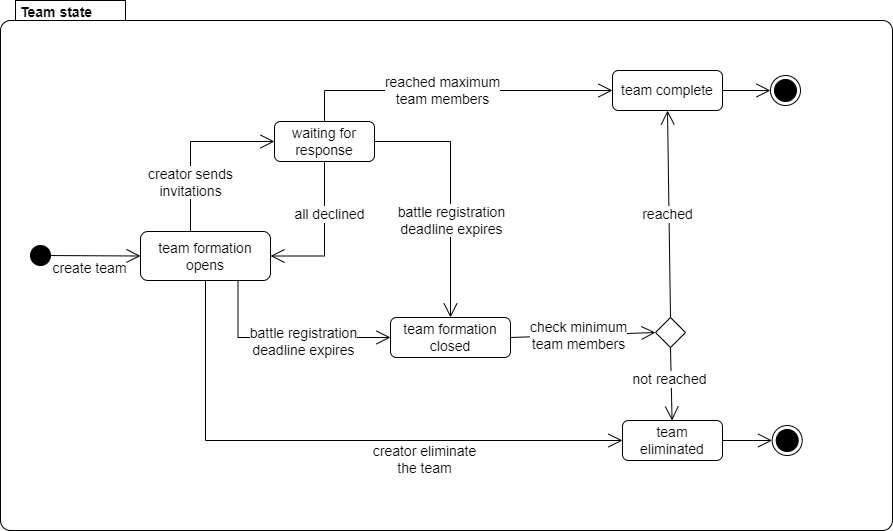
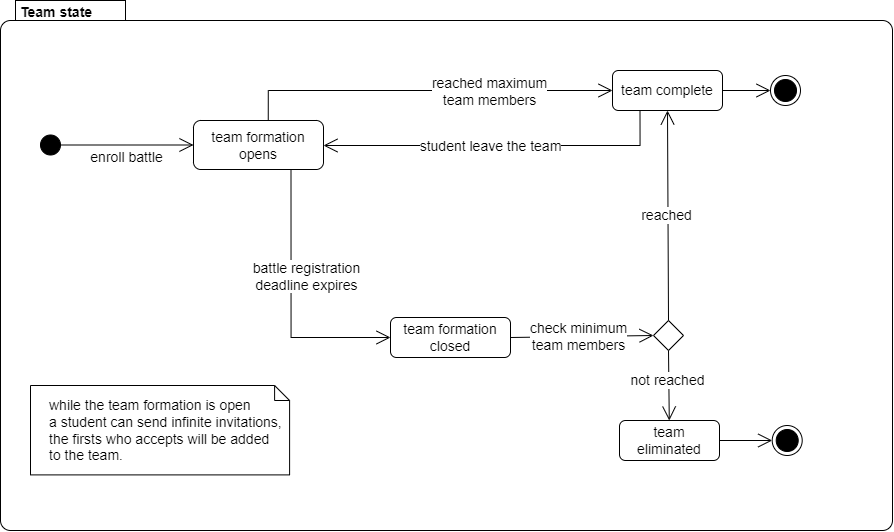
Fixed some issues in chapter 2.
Fixed team state diagram and scenario team formation.
Fixed UML.
Added lbl in scenarios and in traceability matrix.

diff --git a/RASD/chapters/2_overall_description.tex b/RASD/chapters/2_overall_description.tex
@@ -51,11 +51,9 @@ When the final submission deadline expires the battle ends and a consolidation s
 \end{figure}
 
 \subsubsection*{Team state diagrams}
-The state diagram in figure \ref{fig:team_state} represent the evolution of a team, from its creation to its end. \newline
-When a student who is enrolled in a tournament wants to participate in a battle he/she must create a team. The creator can send infinite invitations, and the firsts to accept will be added to the team. As soon as the team reach the maximum value of students, it is complete and all other invitations sent before will not be useful. \newline
-As soon as the battle registration deadline expires the team formation closes. If the team has reached the minimum required value it is complete and can participate to the battle. Otherwise it will be eliminated. \newline 
-If all invitations are declined the creator have the possibility to eliminate the team. 
-If the creator create the team by error, he can eliminate it. This is necessary because a creator is not allowed to join another team by accepting an invite.
+The state diagram in figure \ref{fig:team_state} represent the evolution of a team. \newline
+A student can send infinite invitations, and the firsts to accept will be added to the team. As soon as the team reach the maximum value of students, it is complete and all other invitations sent before will not be useful.  A student can decide to leave the team at any time, but only before the registration deadline. \newline
+As soon as the battle registration deadline expires the team formation closes. If the team has reached the minimum required value it is complete and can participate to the battle. Otherwise it will be eliminated. 
 
 \begin{figure}[H]
     \centering
@@ -68,47 +66,38 @@ If the creator create the team by error, he can eliminate it. This is necessary 
 \subsection{Scenarios}\label{desc:scenarios}
 In this section we will analyze all possible scenarios that can occur in using the CKB platform.
 
-\subsubsection{Scenario 1: Users registration}
-Mario is a professor and wants to challenge his students, so he choose the CKB platform. He creates a personal account by inserting some personal information and then get a confirmation e-mail about the creation of a new account. He now can be able to create tournaments and battle. \newline
-Peach is a computer science student and wants to improve her software development skills. She learns about the CKB platform from her professor, and decide to create an account to be able to participate to battles. The platform request some personal information and then she get a confirmation e-mail about the creation of his new account. She now have a personal profile where every other user can see her progress, in terms of badges earned, battles won, and tournament rankings. \newline
-In both cases the platform request some personal information such as name, surname, username, password, e-mail and the role, that can be student or educator. The account is created after the user clicks on the link sent in the confirmation e-mail. All future notifications will be sent through that e-mail. \newline
-Every registered user can log-in with username and password any time, in order to access the personal dashboard and use the CKB platform.
-
-\subsubsection{Scenario 2: Tournament and battle creation}
-Mario, that is a registered educator, wants to create a new tournament called "Super Smash". He open the CKB platform, log-in, and from his personal dashboard he select the option "create new tournament". He then follows all the steps that allows him to set a registration deadline and a minimum and maximum number of participants. He can then invite other educators to create battles within his tournament. \newline
-Mario invites Luigi to his tournament by adding his username to the list of collaborator. Luigi will be notified by e-mail, and if interested have to join the tournament. \newline
-Luigi, that is also a registered educator, wants to create a new battle in Mario's tournament. He open the CKB platform, log-in, and from his personal dashboard he select "Super Smash" from the list of his tournaments.
-He then select the option "create new battle" and follows all the steps that allows him to upload the code kata, set a registration deadline, minimum and maximum number of students per group and a final submission deadline.
-The tournament "Super Smash" with the first battle are now open, in the list of all ongoing tournaments. \newline
-When all ongoing battles within the tournament have finished Mario can close it. Then the CKB platform will publish the final tournament ranking when is available and send a notification to all enrolled students.
-
-\subsubsection{Scenario 3: Students team formation}
-Peach, that is a registered student, wants to join a tournament. She open the CKB platform, log-in, and from her personal dashboard she is able to see the list of all ongoing tournaments. She selects a tournament and, if the subscription phase is still open, she enrolls.
-Daisy enrolls in the same tournament as Peach. \newline
-Peach decides to form a team. She can invite students up to the maximum number allowed. She has a limited number of invitations, and if someone does not accept the invitation within a fixed time, she can re-send the invite to someone else.
-She sends the invite to Daisy and Toad by adding their username in the team. They will receive a notification by e-mail, and if interested can join the team. Toad decided to join, while Daisy decline the invite. \newline
-If the team reach the minimum number of participants for the battle by the registration deadline, they can compete. \newline
-\textbf{A team does not reach the minimum number of participants:} Let's say that the minimum number of participant for the  previously mentioned battle is 3, in this case Peach can re-send the invite to another student but she forgot and the registration deadline expires.
-Peach's team cannot compete in the battle, therefore their score will be automatically 0.
-
-\subsubsection{Scenario 4: Real-time battle progress}
-Peach has formed a valid team for a battle within a tournament. The CKB platform has automatically created a GitHub repository with all the essential elements for the resolution of the battle, and send a link to all enrolled students.
-Peach and her team have to fork this repository and set up an automated workflow 
-through GitHub Actions. At each pushed commit the platform automatically update the total score of the team. The team is also able to see the current ranking evolving during the battle, so they can improve their solution to get a better rank.\newline
-\textbf{Students push the solution in a different language:} Every submission that does not use the language specified in the project description will not be evaluated, therefore the team will get a score of 0.  \newline
-\textbf{Students push the solution after the deadline:} Every submission after the deadline is ignored, therefore the team will get a score of 0. 
-
-\subsubsection{Scenario 5: Manual evaluation}
-After the final submission deadline of a battle expires, a consolidation phase open. During this phase Luigi, that is the creator of the battle, can optionally assign a personal score to each student that will be added to the total score of the entire team.
-As soon as Luigi has finished to evaluate all students, he will end the consolidation phase, and when the ranking are available all students will be notified.\newline
-\textbf{The score exceed the maximum value:} Luigi can make a mistake and assign a score to a student making the overall team score higher than 100. In this case the score will be automatically cut off to 100.
-
-\subsubsection{Scenario 6: Gamification badges management}
-Mario, that is a registered educator, wants to create a new badge that is earned by the student who wrote the most lines of code. From his personal dashboard he select the option "create new badge", then he has to specify the name, a description and one or more rules that regulates if a student is eligible to get that badge. In this case the name will be "Top Writer" and it will be awarded to the student who wrote the most lines of code within a battle. \newline
-Peach, that is a student, aspires to earn the "Top Writer" badge, and so she heavily contributed on the last battle. At the end of the battle the CKB platform automatically checks if any student is eligible for a badge, and Peach is assigned the "Top Writer", which will appear on her CKB profile.
-
-\subsubsection{Scenario 7: Visualize student profile}
-Mario is logged and want to check the profile of Luigi, in order to do this, he write the username of Luigi in the search-bar, will be visualized the resuming information about Luigi, including all the badges that he had collected.
+\begin{enumerate}[label=\textbf{SC.\arabic*}]
+    \item \lbl{sce: reg} \textbf{Users registration and log in.} \newline
+    Mario is a professor and wants to challenge his students, so he choose the CKB platform. He creates a personal account by inserting some personal information and then get a confirmation e-mail about the creation of a new account. He now can be able to create tournaments and battle. \newline
+    Peach is a computer science student and wants to improve her software development skills. She learns about the CKB platform from her professor, and decide to create an account to be able to participate to battles. The platform request some personal information and then she get a confirmation e-mail about the creation of his new account. She now have a personal profile where every other user can see her progress, in terms of badges earned, battles won, and tournament rankings. \newline
+    In both cases the platform request some personal information such as name, surname, username, password, e-mail and the role, that can be student or educator. The account is created after the user clicks on the link sent in the confirmation e-mail. All future notifications will be sent through that e-mail. \newline
+    Every registered user can log-in with username and password any time, in order to access the personal dashboard and use the CKB platform.
+    \item \lbl{sce: createTB} \textbf{Tournament and battle creation.} \newline
+    Mario, that is a registered educator, wants to create a new tournament called "Super Smash". He open the CKB platform, log-in, and from his personal dashboard he select the option "create new tournament". He then follows all the steps that allows him to set a registration deadline and a minimum and maximum number of participants. He can then invite other educators to create battles within his tournament. \newline
+    Mario invites Luigi to his tournament by adding his username to the list of collaborator. Luigi will be notified by e-mail, and if interested have to join the tournament. \newline
+    Luigi, that is also a registered educator, wants to create a new battle in Mario's tournament. He open the CKB platform, log-in, and from his personal dashboard he select "Super Smash" from the list of his tournaments.
+    He then select the option "create new battle" and follows all the steps that allows him to upload the code kata, set a registration deadline, minimum and maximum number of students per group and a final submission deadline.
+    The tournament "Super Smash" with the first battle are now open, in the list of all ongoing tournaments. \newline
+    When all ongoing battles within the tournament have finished Mario can close it. Then the CKB platform will publish the final tournament ranking when is available and send a notification to all enrolled students.
+    \item \lbl{sce: formTeam} \textbf{Students team formation.} \newline
+    Peach, Daisy and Toad, who are registered student, receive an e-mail that a new tournament is open and both decide to subscribe. They then receive another e-mail that a new battle is available and both decide to enroll. \newline
+    Peach decides to form a team. She can invite other students enrolled in the battle by sending an invitation. She sends the invite to Daisy and Toad by specifying their username. They will receive a notification by e-mail, and if interested can join the team. Toad decided to join, while Daisy not. \newline
+    If the team reach the minimum number of participants for the battle by the registration deadline, they can compete. \newline
+    \textbf{A team does not reach the minimum number of participants:} Let's say that the minimum number of participant for the  previously mentioned battle is 3, in this case Peach can send the invite to another student but she forgot and the registration deadline expires.
+    Peach's team cannot compete in the battle, therefore their score will be automatically 0.
+    \item \lbl{sce: evalA} \textbf{Real-time battle progress.} \newline
+    Peach has formed a valid team for a battle within a tournament. The CKB platform has automatically created a GitHub repository with all the essential elements for the resolution of the battle, and send a link to all enrolled students.
+    Peach and her team have to fork this repository and set up an automated workflow 
+    through GitHub Actions. At each pushed commit the platform automatically update the total score of the team. The team is also able to see the current ranking evolving during the battle, so they can improve their solution to get a better rank.\newline
+    \textbf{Students push the solution after the deadline:} Every submission after the deadline is ignored, therefore the team will get a score of 0. 
+    \item \lbl{sce: evalM} \textbf{Manual evaluation.} \newline
+    After the final submission deadline of a battle expires, a consolidation phase open. During this phase Luigi, that is the creator of the battle, can optionally assign a personal score to each student that will be added to the total score of the entire team.
+    As soon as Luigi has finished to evaluate all students, he will end the consolidation phase, and when the ranking are available all students will be notified.\newline
+    \textbf{The score exceed the maximum value:} Luigi can make a mistake and assign a score to a student making the overall team score higher than 100. In this case the score will be automatically cut off to 100.
+    \item \lbl{sce: badge} \textbf{Gamification badges management.} \newline
+    Mario, that is a registered educator, wants to create a new badge that is earned by the student who wrote the most lines of code. From his personal dashboard he select the option "create new badge", then he has to specify the name, a description and one or more rules that regulates if a student is eligible to get that badge. In this case the name will be "Top Writer" and it will be awarded to the student who wrote the most lines of code within a battle. \newline
+    Peach, that is a student, aspires to earn the "Top Writer" badge, and so she heavily contributed on the last battle. At the end of the battle the CKB platform automatically checks if any student is eligible for a badge, and Peach is assigned the "Top Writer", which will appear on her CKB profile.
+\end{enumerate}
 
 \clearpage
 
@@ -136,19 +125,19 @@ The system allow the educator to specify:
 The educator has to specify the languages in which the submission can be made.
 When the registration deadline expires, the CKB platform creates a GitHub repository that contain the code kata, and sends the link to all the students enrolled in the battle.
 
-\subsection{Subscribe to a tournament}
-This function will be available only for students. \newline When a new tournament is created all registered students are notified and can subscribe within a given deadline.
+\subsection{Join a tournament}
+This function will be available only for students. \newline When a new tournament is created all registered students are notified and can subscribe within a given deadline.  By clicking on the link in the e-mail the student subscribe to the tournament.
 
 \subsection{Join a battle}
-This function will be available only for students. \newline When there is an upcoming battle in a tournament all subscribed students are notified. Each student can join a battle only with a team, even made up of only one student if it is allowed. 
+This function will be available only for students. \newline 
+When there is an upcoming battle in a tournament all subscribed students are notified by e-mail. By clicking on the link in the e-mail the student enrolls in the battle. 
 
 \subsection{Create a team}
 This function will be available only for students. \newline
 Teams are formed by invite. The creator is able to send infinite invitations, and the firsts to accept will be added to the team.  \newline
-The invite will be received by e-mail, and the recipient must click on the right link if he/she wants to accept or decline. The student has 24h to respond to an invite, otherwise it will be automatically declined. \newline
-The creator is not allowed to accept other invitations. If all invitations are declined the creator can eliminate the team.
+The invite will be received by e-mail, and the recipient must click on the link if he/she wants to accept. 
 
-\subsection{Automatic scores updates}
+\subsection{Automatically evaluate}
 When the students push a new commit into the main branch of the GitHub repository, the CKB platform automatically analyze it and runs the tests to calculate and update the battle score of the team.\newline
 The score of each battle is automatically evaluated in the following ways:
 \begin{itemize}
@@ -157,18 +146,21 @@ The score of each battle is automatically evaluated in the following ways:
         \item quality level of the source, extracted through static analysis tools based on aspects chosen by the educator when creating the battle. 
 \end{itemize}
 
-\subsection{Manually scores updates}
+\subsection{Manually evaluate}
 When a battle ends, a consolidation stage open. The creator of the battle is able to optionally perform a manual evaluation for each student enrolled.
 Once the educator has evaluated all students he can end the consolidation, and when the final battle ranking is available all enrolled students will be notified.
 
-\subsection{View all rankings}
+\subsection{View all tournaments ranking}
 Every user can see the list of ongoing tournaments and the corresponding ranking (that compares all subscribed students' performance) in the CKB platform.
 At the end of each battle the personal tournament score of each student is automatically updated ad the sum of all battle scores received. 
+
+\subsection{View my battles ranking}
+Every user that have access to a battle (in the case of an educator he/she is the creator, in the case of a student he/she is enrolled) can see the real-time progress of the ranking. 
 
 \subsection{View a student profile}
 Every user can view a profile of a student by searching for his/her username. In each profile are shown badges earned, battles won, and tournament rankings. 
 
-\subsection{Create and manage gamification badges}
+\subsection{Create gamification badges}
 This function will be available only for educators. 
 \newline A badge can be created by specifying a title and at least one rule that must be satisfied to achieve it. Each badge is then automatically assigned to one or more students by checking the validity of the rules. Educators can also create new variables that represent relevant information for scoring. A variable is identified by a unique name and a measurement unit, that can be selected by a list of predefined (e.g. integer, float, date, ..).
 
@@ -190,14 +182,13 @@ There are two different type of users:
 In this section are listed all assumption made for the domain in which the system operates. These are conditions that the system take for granted because they are external to it but influence its behaviour.
 \begin{enumerate}[label=\textbf{DA.\arabic*}]
         \item \lbl{da: internet} {Users must have internet connection to interacts with the CKB platform.}
-        \item \lbl{da: eduQual} {Educators must be qualified and experienced in software development and related fields.}
-        \item \lbl{da: correctCode} {The uploaded "code kata" by the educators must be correct and complete.}
         \item \lbl{da: GitHubAccount} {Students must have a GitHub account to be able to deliver a solution.}
         \item \lbl{da: GitHubFork} {Students must fork the GitHub repository created by the CKB platform and set up an automated workflow through GitHub Actions.}
-        \item \lbl{da: devEnv} {Students must have a development environment with the necessary software tools and libraries to complete code kata battles.}
         \item \lbl{da: autWorkFlow} {The automatic workflow correctly trigger the CKB platform in order to evaluate the new commit.}
-        
-        
+        \item \lbl{da: devEnv} {Students must have a development environment with the necessary software tools and libraries to complete code kata battles.}
+        \item \lbl{da: eduQual} {Educators must be qualified and experienced in software development and related fields.}
+        \item \lbl{da: correctCode} {The uploaded "code kata" by the educators must be correct and complete.}
+        \item \lbl{da: noDuplBadg} {Educators must create badges that are not redundant with existing ones in the tournament.}
 \end{enumerate}
 
 \subsection{Constraints}

diff --git a/RASD/chapters/3_specific_requirements.tex b/RASD/chapters/3_specific_requirements.tex
@@ -208,7 +208,8 @@ In this section, it is given a complete description of the functional requiremen
                 \print{req: defineRV}\\
                 \hline \\
                 \print{da: internet} 
-                \print{da: eduQual}\\
+                \print{da: eduQual}
+                \print{da: noDuplBadg}\\
                 \hline
             \end{tabular} 
         \end{center}
@@ -621,13 +622,16 @@ In this section, it is given a complete description of the functional requiremen
                     \hline
                     \textbf{Actors} & Educators. \\
                     \hline
-                    \textbf{Entry conditions}  & An educator wants to create a new badge. \\
+                    \textbf{Entry conditions}  & An educator wants to create a new badge within a tournament. \\
                     \hline
                     \textbf{Event flow}  & 
                     \begin{enumerate}[label=\arabic*.]
-                        \item The user clicks on the button "create badge".
-                        \item The user inserts all information requested.
-                        \item The system check the inserted information.
+                        \item The educator clicks on the button "my tournaments"
+                        \item The educator visualize a list of tournaments to which he/she has access.
+                        \item The educator select a tournament from the list.
+                        \item The educator clicks on the button "create badge".
+                        \item The educator inserts all information requested.
+                        \item The system check the correctness of the inserted information.
                     \end{enumerate}\\ 
                     \hline
                     \textbf{Exit conditions}  & The badge has been successfully created. \\
@@ -671,50 +675,50 @@ In this section, it is given a complete description of the functional requiremen
                 \hline
                 \textbf{Use Case ID} & \textbf{Goal ID} & \textbf{Req ID} & \textbf{Scenarios} \\
                 \hline
-                \ref{uc: reg} & ALL & \ref{req: reg} & sce1  \\
+                \ref{uc: reg} & ALL & \ref{req: reg} & \ref{sce: reg}  \\
                 \hline
-                \ref{uc: login} & ALL & \ref{req: login} & sce1  \\
+                \ref{uc: login} & ALL & \ref{req: login} & \ref{sce: reg}   \\
                 \hline
-                \ref{uc: createT} & \ref{goal: manageT} & \ref{req: createT} & sce2  \\
+                \ref{uc: createT} & \ref{goal: manageT} & \ref{req: createT} & \ref{sce: createTB}   \\
                 \null & \null  & \ref{req: manageT}&\null \\
                 \null & \null  & \ref{req: notifT}&\null \\
                 \hline
-                \ref{uc: createB} & \ref{goal: createB} & \ref{req: createB} & sce2  \\
+                \ref{uc: createB} & \ref{goal: createB} & \ref{req: createB} & \ref{sce: createTB}  \\
                 \null & \null  & \ref{req: notifB}&\null \\
                 \hline
-                \ref{uc: inviteE} & \ref{goal: createB} & \ref{req: manageT} & sce2  \\
+                \ref{uc: inviteE} & \ref{goal: createB} & \ref{req: manageT} & \ref{sce: createTB}  \\
                 \hline
-                \ref{uc: closeT} & \ref{goal: manageT} & TO DEFINE & sce2  \\
+                \ref{uc: closeT} & \ref{goal: manageT} & TO DEFINE & \ref{sce: createTB}  \\
                 \hline
-                \ref{uc: rankT} & \ref{goal: listT} & \ref{req: listT} & sce4  \\
+                \ref{uc: rankT} & \ref{goal: listT} & \ref{req: listT} & \ref{sce: rankB}  \\
                 \null & \null  & \ref{req: notifT}&\null \\
                 \null & \ref{goal: rankT}  & \ref{req: ranks}&\null \\
                 \null & \null  & \ref{req: notifRankT}&\null \\
                 \hline
-                \ref{uc: enrollT} & \ref{goal: enrollT} & \ref{req: listT} & sce2  \\
+                \ref{uc: enrollT} & \ref{goal: enrollT} & \ref{req: listT} & \ref{sce: createTB}  \\
                 \null & \null  & \ref{req: enrollT}&\null \\
                 \null & \null  & \ref{req: notifT}&\null \\
                 \hline
-                \ref{uc: enrollB} & \ref{goal: enrollB} & \ref{req: enrollB} & sce3 \\
+                \ref{uc: enrollB} & \ref{goal: enrollB} & \ref{req: enrollB} & \ref{sce: formTeam} \\
                 \null & \null  & \ref{req: formTeam}& \null \\ 
                 \null & \null  & \ref{req: notifB}&\null \\
                 \null & \null  & \ref{req: notifGitHub}&\null \\
                 \hline
-                \ref{uc: inviteS} & \ref{goal: formTeam} & \ref{req: formTeam} & sce3 \\
+                \ref{uc: inviteS} & \ref{goal: formTeam} & \ref{req: formTeam} & \ref{sce: formTeam} \\
                 \null & \null  & \ref{req: notifInvite}& \null \\ 
                 \hline
-                \ref{uc: leaveT} & \ref{goal: formTeam} & \ref{req: formTeam} & sce3 \\
+                \ref{uc: leaveT} & \ref{goal: formTeam} & \ref{req: formTeam} & \ref{sce: formTeam} \\
                 \null & \null  & \ref{req: notifInvite}& \null \\ 
                 \hline
-                \ref{uc: rankB} & \ref{goal: scoreB} & \ref{req: evalA} & sce4 \\
+                \ref{uc: rankB} & \ref{goal: scoreB} & \ref{req: evalA} & \ref{sce: evalA} \\
                 \null & \null  & \ref{req: ranks}& \null \\ 
                 \null & \null  & \ref{req: evalM}&\null \\
                 \null & \null  & \ref{req: notifRankB}&\null \\
                 \hline
-                \ref{uc: evalM} & \ref{goal: scoreB} & \ref{req: evalM} & sce5 \\
+                \ref{uc: evalM} & \ref{goal: scoreB} & \ref{req: evalM} & \ref{sce: evalM} \\
                 \null & \null  & \ref{req: notifRankB}&\null \\
                 \hline
-                \ref{uc: evalA} & \ref{goal: scoreB} & \ref{req: evalA} & sce4 \\
+                \ref{uc: evalA} & \ref{goal: scoreB} & \ref{req: evalA} & \ref{sce: evalA} \\
                 \null & \null  & \ref{req: ranks}&\null \\
                 \null & \null  & \ref{req: notifRankB}&\null \\
                 \hline

diff --git a/RASD/chapters/1_introduction.tex b/RASD/chapters/1_introduction.tex
@@ -18,7 +18,7 @@ Below are presented the goals of CodeKataBattle. Further description will be dis
         \item \lbl{goal: scoreB} {Students can see their team score in a battle.}
         \item \lbl{goal: listT} {Users can see the list of ongoing tournaments.}
         \item \lbl{goal: rankT} {Users can see all tournaments rank.}
-        \item \lbl{goal: createBad} {Educators can create new badges.}
+        \item \lbl{goal: createBad} {Educators can create new badges within a tournament.}
         \item \lbl{goal: profile} {Users can visualize collected badges of students by visiting their profile.}
 \end{enumerate}
 

diff --git a/RASD/chapters/5_effort.tex b/RASD/chapters/5_effort.tex
@@ -42,7 +42,7 @@
 		\textbf{Task} & \textbf{Hours} \\ \hline
             Document setup & 2 \\ \hline
             Chapter 1: Introduction & 3 \\ \hline
-            Chapter 2: Overall description & 15 \\ \hline
+            Chapter 2: Overall description & 16 \\ \hline
             Chapter 3: Specific requirements & 15 \\ \hline
             Chapter 4: Alloy & 0 \\ \hline
             Extra Activities & 2.5 \\ \hline
